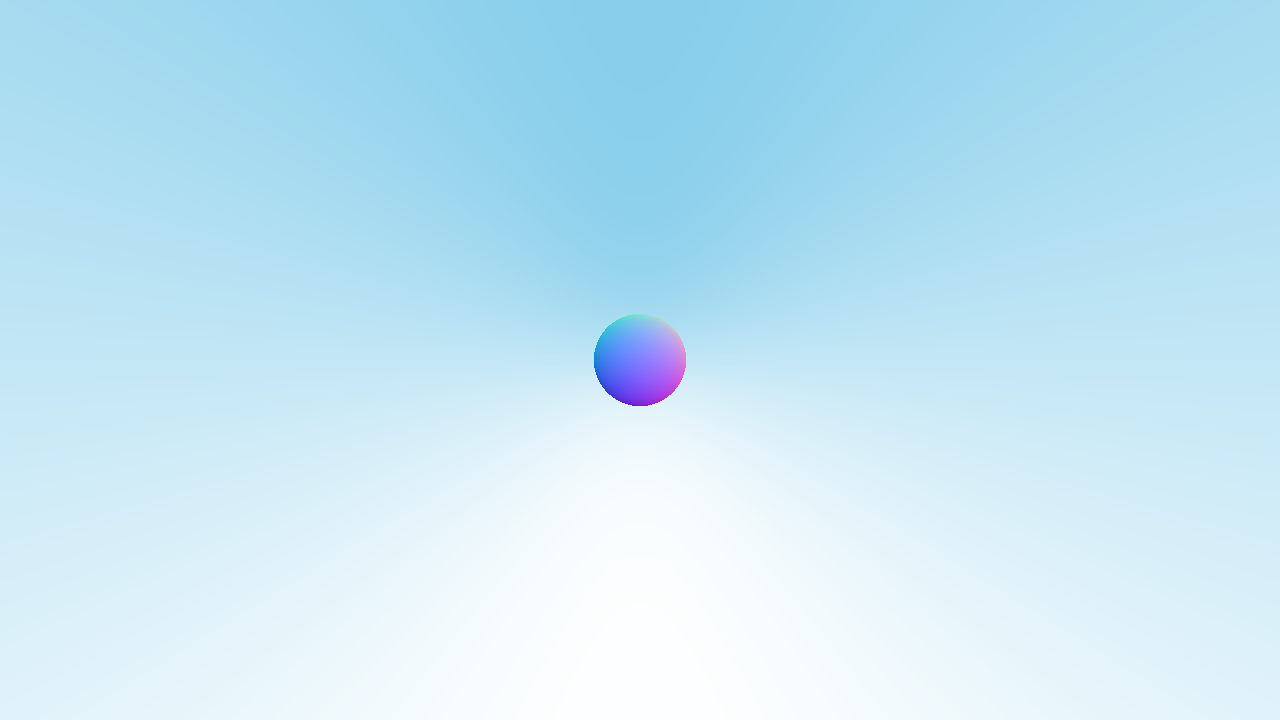
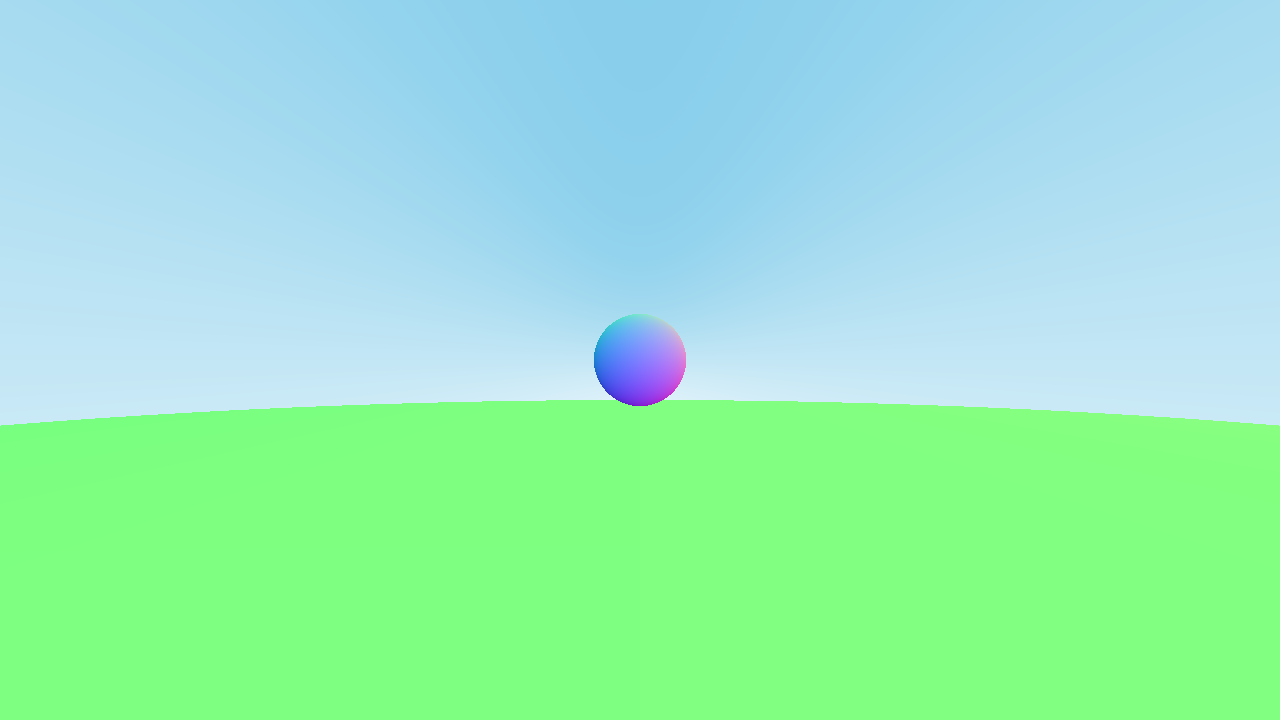
Finished section 6: "Surface Normals and Multiple Objects"

diff --git a/src/geometry.rs b/src/geometry.rs
@@ -2,16 +2,16 @@ use std::ops::{Add, AddAssign, Div, DivAssign, Mul, MulAssign, Neg, Sub, SubAssi
 
 use crate::image::{self, Color};
 
-trait Obstacle {
+pub trait Obstacle {
     fn hit(&self, ray: &Ray, t_min: f64, t_max: f64) -> Option<Hit>;
 }
 
-struct ObstacleCollection {
+pub struct ObstacleCollection {
     obstacles: Vec<Box<dyn Obstacle>>,
 }
 
 impl ObstacleCollection {
-    fn new(obstacles: Vec<Box<dyn Obstacle>>) -> Self { Self { obstacles } }
+    pub fn new(obstacles: Vec<Box<dyn Obstacle>>) -> Self { Self { obstacles } }
     fn clear(&mut self) {
         self.obstacles.clear();
     }
@@ -22,10 +22,10 @@ impl ObstacleCollection {
 }
 
 impl Obstacle for ObstacleCollection {
-    fn hit(&self, ray: &Ray, t_min: f64, t_max: f64) -> Option<Hit> {
+    fn hit(&self, ray: &Ray, t_min: f64, mut t_max: f64) -> Option<Hit> {
         let mut closest_hit = None;
 
-        for obstacle in self.obstacles {
+        for obstacle in &self.obstacles {
             if let Some(hit) = obstacle.hit(ray, t_min, t_max) {
                 t_max = hit.t;
                 closest_hit = Some(hit);
@@ -35,7 +35,7 @@ impl Obstacle for ObstacleCollection {
     }
 }
 
-struct Hit {
+pub struct Hit {
     p: Point3D,
     normal: Vec3D,
     t: f64,
@@ -124,10 +124,9 @@ impl Ray {
         self.origin + t.into() * self.direction
     }
 
-    pub fn color(&self) -> image::Color {
-        let sphere = Sphere::new(Point3D::new(0, 0, -1), 0.5);
-        if let Some(hit) = sphere.hit(self, 0.0, 1.0) {
-            // let normal = sphere.surface_normal(self.at(hit));
+    pub fn color(&self, obstacles: &ObstacleCollection) -> image::Color {
+        // let sphere = Sphere::new(Point3D::new(0, 0, -1), 0.5);
+        if let Some(hit) = obstacles.hit(self, 0.0, 1.0) {
             let color_map = (hit.normal + 1) / 2; // [-1; 1] to [0; 1]
             return Color::new(color_map.x, color_map.y, color_map.z);
         }

diff --git a/src/main.rs b/src/main.rs
@@ -1,16 +1,19 @@
 use anyhow::Result;
 use indicatif::{ProgressIterator, ProgressStyle};
 
-use nova::{
-    geometry::{Point3D, Ray, Vec3D},
-    image::Image,
-};
+use nova::{geometry::{ObstacleCollection, Point3D, Ray, Sphere, Vec3D}, image::Image};
 
 fn main() -> Result<()> {
     // Image
     let aspect_ratio = (16, 9);
     let image_scale = 80;
     let mut image = Image::new(image_scale * aspect_ratio.0, image_scale * aspect_ratio.1);
+
+    // World
+    let world = ObstacleCollection::new(vec![
+        Box::new(Sphere::new(Vec3D::new(0, 0, -1), 0.5)),
+        Box::new(Sphere::new(Vec3D::new(0, -100.5, -1), 100))
+    ]);
 
     // Camera
     let view_port = (aspect_ratio.0 as i32, aspect_ratio.1 as i32);
@@ -34,7 +37,7 @@ fn main() -> Result<()> {
 
             let direction = lower_left_corner + u * horizontal + v * vertical - origin;
             let ray = Ray::new(origin, direction);
-            let pixel = ray.color().into();
+            let pixel = ray.color(&world).into();
 
             image.pixels()[(y, x)] = pixel;
         }
